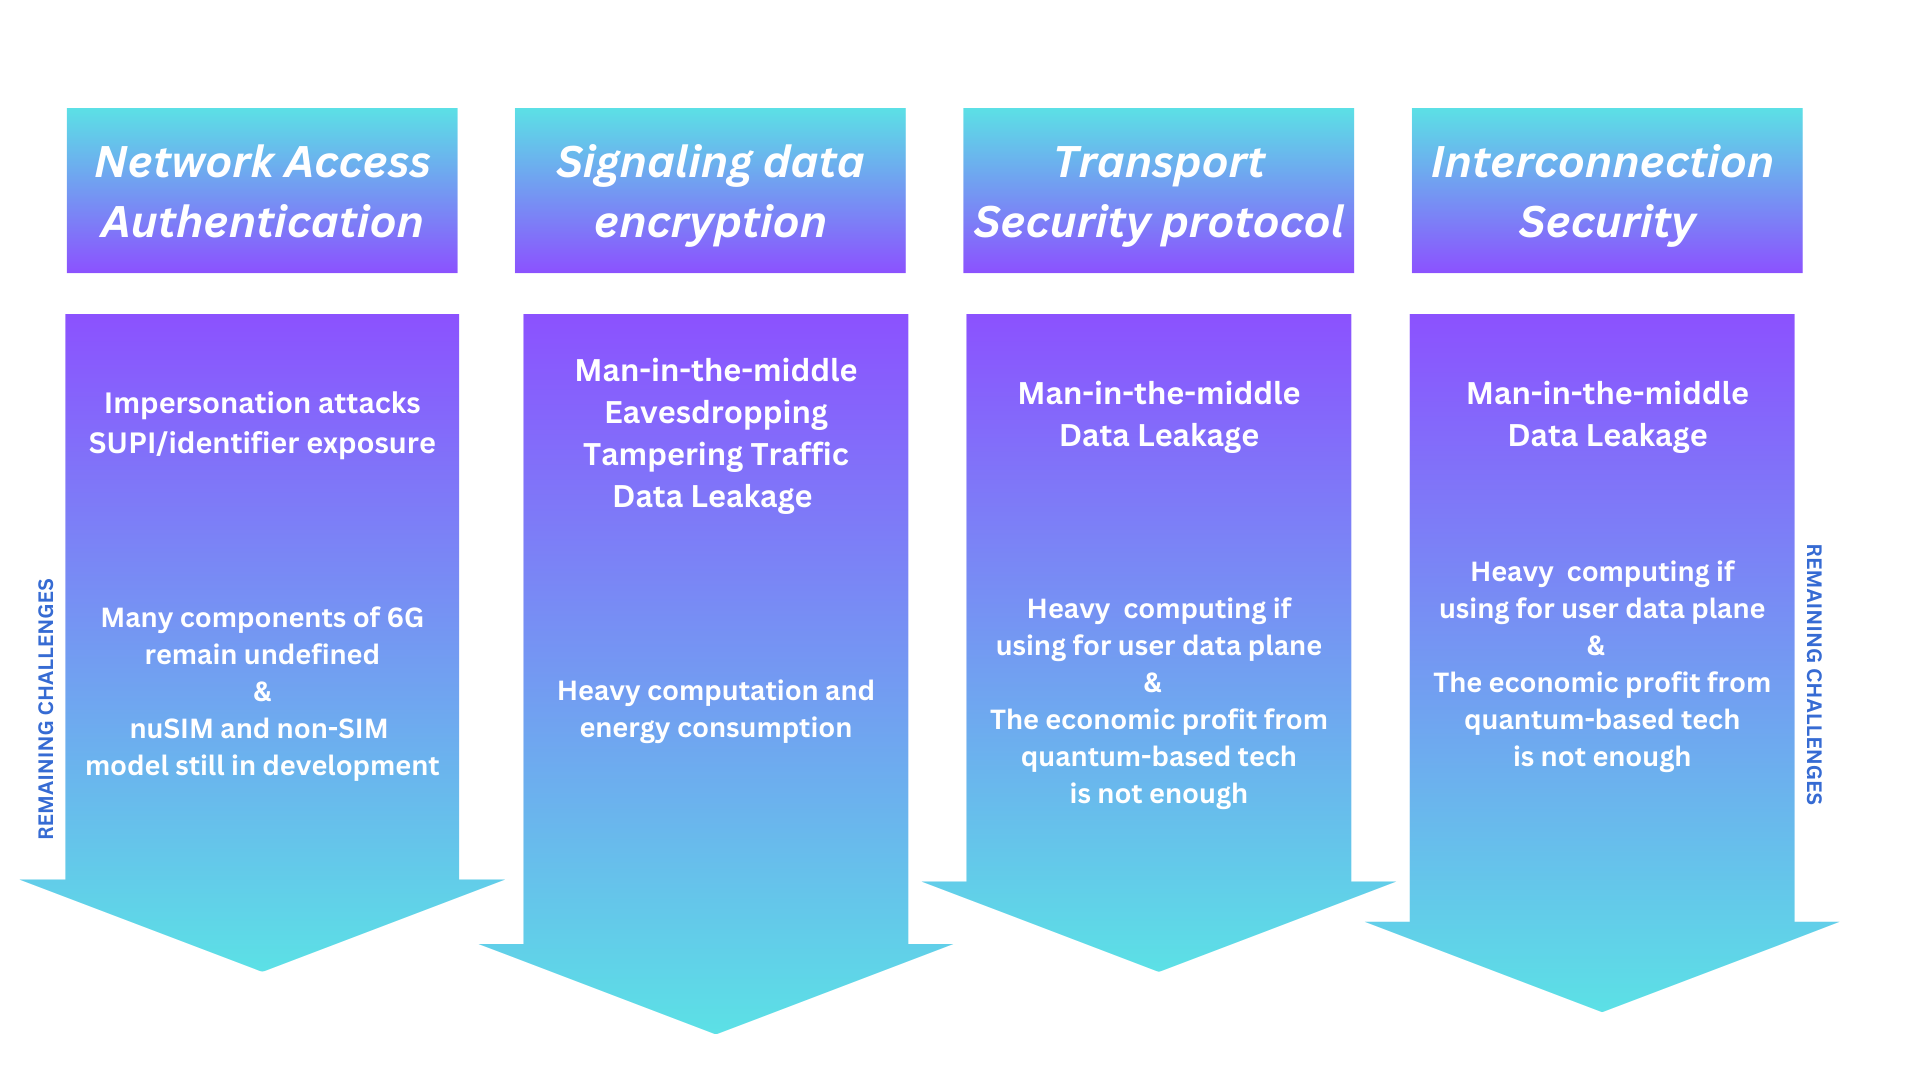
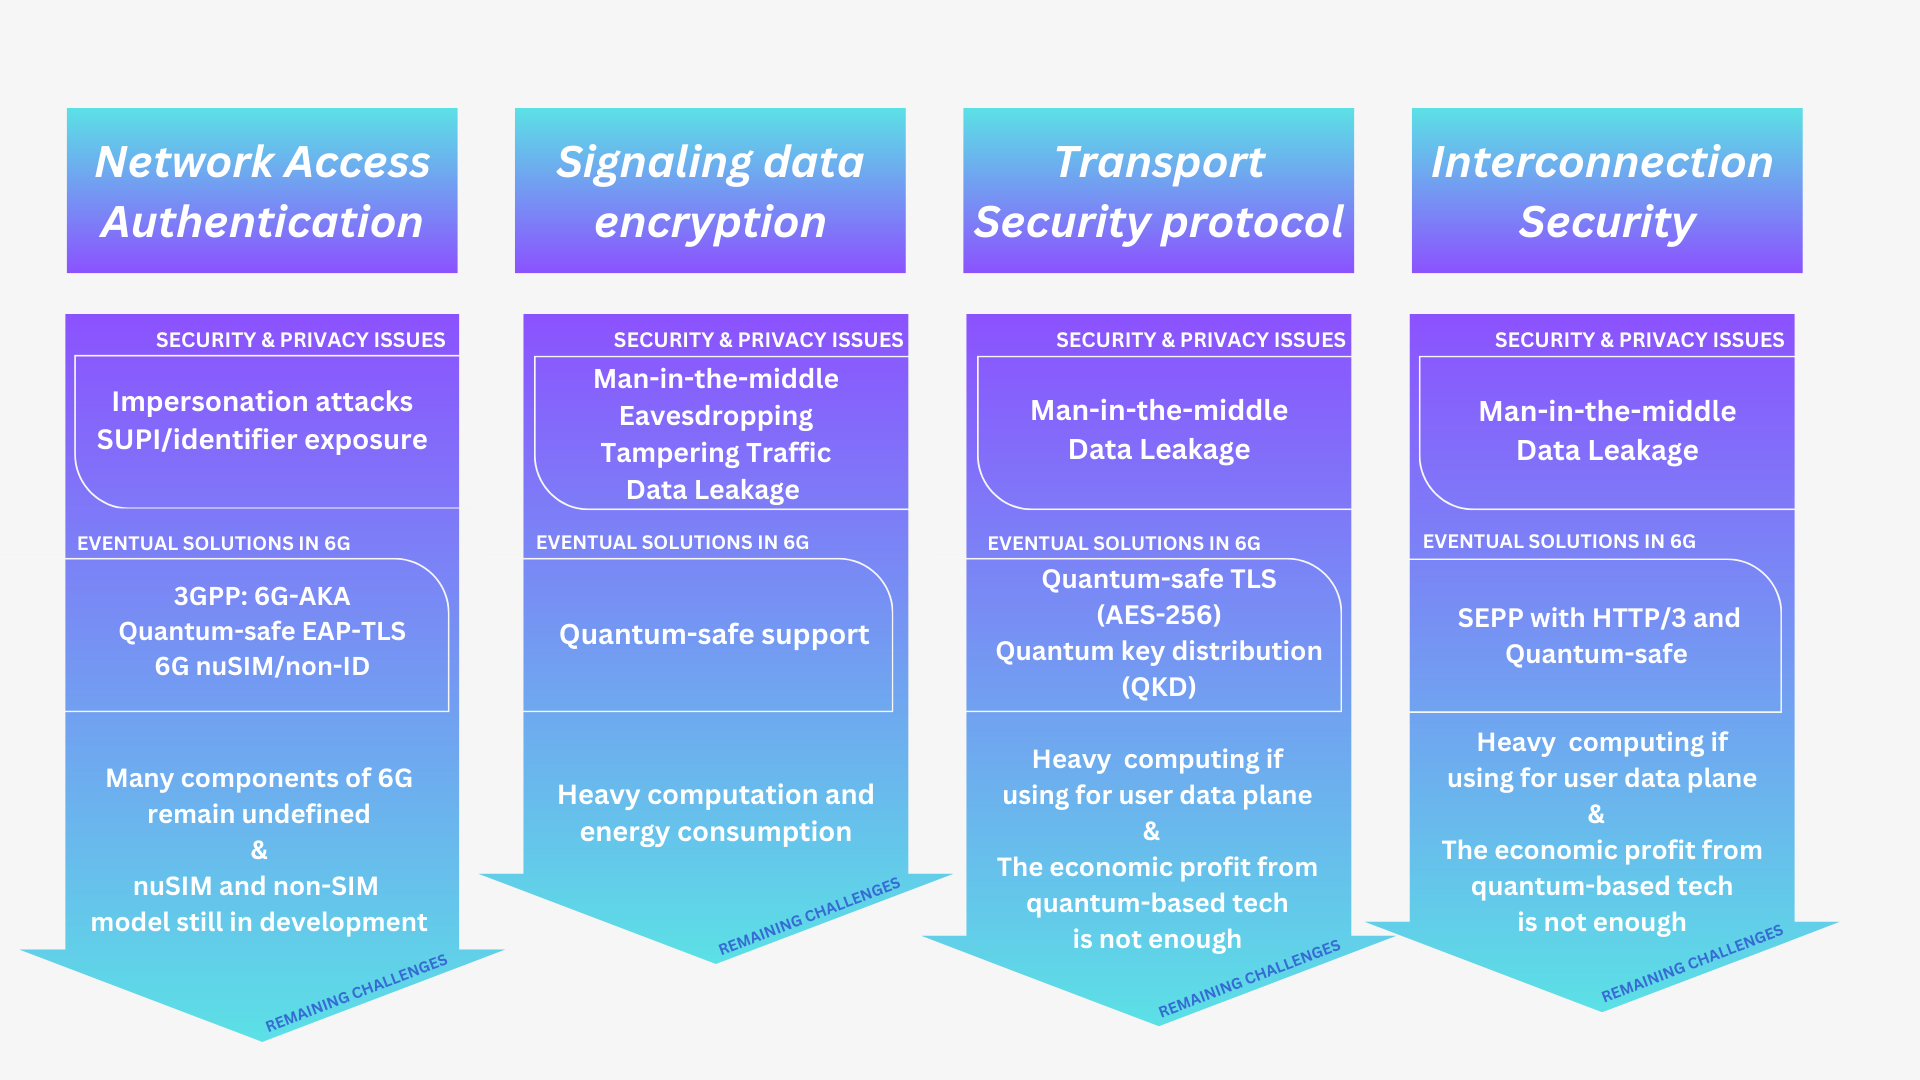
Ajouts page 6G

diff --git a/src/components/SixG.tsx b/src/components/SixG.tsx
@@ -51,6 +51,7 @@ const Article = () => {
         </p>
 
         <img src="/images/Network_Security.png" alt="TEST" />
+        <div className='italic text-center mb-4'>Diagram of the issues associated with each protocol</div>
 
 
 
@@ -106,6 +107,9 @@ const Article = () => {
 
 
         <h2 className="text-3xl mb-4 mt-10" id="third">Security in the connection layer</h2>
+        <img src="images/SecuConnectionLayer-1.png" alt="overview of security challenges in the connection layer" />
+        <img src="images/SecuConnectionLayer-2.png" alt="An overview of security challenges in the connection layer" />
+        <p className='italic text-center mb-4'>An overview of security challenges in the connection layer</p>
         <p>
           The connection layer could be seen as the aggregation of the network layer and the transport layer. This layer has been the target of attackers, as it goes from the ground stations to the gateways. Denial-of-service, spoofing attacks… the list goes on. Thus, it is more than essential to find ways to secure this layer as much as possible.
         </p>
@@ -250,10 +254,14 @@ const Article = () => {
 
 
 
+
       <h2 className="text-3xl mb-4 mt-10" id="fourth">Security in the service layer</h2>
       <p>
         Nowadays, the service layer mainly consists of edge/fox/cloud technologies, which are different computing paradigms. In order to protect the service layer, it is needed to combine different tasks, such as authentication, firewalls, data encryption, service identity access management, data-center network protection, and many more. There are many potential technologies which could help mitigate risks.
       </p>
+      <img src="images/SecuServiceLayer-1.png" alt="overview of security challenges in the service layer" />
+      <img src="images/SecuServiceLayer-2.png" alt="overview of security challenges in the service layer" />
+      <p className='italic text-center mb-4'>An overview of security challenges in the service layer</p>
 
       <h2 className="text-xl mx-2 mb-2 mt-6" id="">6G application authentication: distributed PKI and blockchain-based PKI</h2>
       <p>
@@ -291,7 +299,6 @@ const Article = () => {
       <p className="mt-4">
         On the other hand, the problem of personal data leakage remains, leaving room for potential privacy breaches. Once a breach of confidentiality has occurred for biometric data, there is no turning back, it is not possible to “update” fingerprints. Also, it puts the owner at risk, as his or her information can be stolen (find an example in the press).
       </p>
-      <img src="images/SecuServiceLayer-1.png"/>
       <p className='mt-4'>
         Other methods to secure the service layer have been recently developed or considered:
       </p>
@@ -307,8 +314,41 @@ const Article = () => {
       <p className='mt-4'>
         <strong>Liquid software security</strong>: liquid software allows data and applications to flow between nodes, and in 6G, this platform-agnostic approach will be extended to computing nodes such as edge servers. Enhancing containerization architecture and cloudization of edge/fog nodes will facilitate the development of platform-agnostic systems (which are systems designed to be independent any specific operating system or hardware platform). However, security challenges arise, including potential attacks in multi-tenancy container-based systems and the need for research on platform-agnostic security and related attacks. In the context of the evolving "Service Everywhere" architecture, security-as-a-service models will expand to computing nodes, and proactive AI models will be upgraded to address multiple threats. Challenges remain in detecting insider attacks and implementing robust distributed backup facilities to mitigate risks.
       </p>
-      <p></p>
-      <img src="images/SecuServiceLayer-2.png"/>
+
+
+
+
+      <h2 className="text-3xl mb-4 mt-10" id="fifth">Artificial intelligence's impact on 6G security</h2>
+      <p>
+        In 6G, the big new thing is Articicial Intelligence, with Machine Learning techniques. Through this approach, systems autonomously learn from human tasks, improving performance over time - making it a core subset of AI technology. A successful 6G network must integrate this innovation while prioritizing its security integration with AI technology as well. Because enterprises serving sizable subscriber bases operate these networks - investing in enhanced security measures enhances overall network integrity while providing advanced AI benefits for those same users.The evolution of general AI will positively impact 6G-AI-based security systems, however, it does not come without problems. The next sections will discuss how AI can be a double-edged sword for 6G security.
+      </p>
+      <img src="images/SecuIA.png" className='mt-4' alt="overview on AI in the 6G layer context" />
+      <p className='italic text-center mb-4'>An overview on AI in the 6G layer context</p>
+      <p>
+        Future directions for AI in 6G security include enhancing generative learning capabilities, utilizing distributed and federated learning for large-scale datasets, leveraging unsupervised models and transfer learning to reduce training costs. Furthermore, developing explainable AI models to ensure transparency and avoid unjustifiable decisions, which coud make AI dangerous.
+      </p>
+
+      <h2 className="text-xl mx-2 mb-2 mt-6" id="">How AI could be the target of security attacks</h2>
+      <p>
+        With all that being said, AI is not unbeatable, and it can actually be defeated. It is the target of adversarial attacks, which are attacks used to deceive or manipulate AI, by introducing carefully crafted data with the intention of causing the system to make incorrect or unintended decisions. Hackers can also target AI systems using differents arrack methods depending on their knowledge of the system. These attacks exploit vulnerabilities in the training data, learning algorithms, and hyperparameters used in the learning process. Data poisoning, algorithm poisoning, and model poisoning are the three main types of attacks that target AI-based systems. Data poisoning is actually one of the major challenges in security nowadays, as it involves inserting wrong labeled data or manipulating input objects, which results to mislead machine learning algorithms.
+      </p>
+      <p className='mt-4'>
+        In 6G, where AI is crucial for applications like autonomous driving, the risks of these attacks cannot be underestimated. Defense strategies against adversarial attacks on AI systems include enhancing data quality, model protection, and output integrity restoration. AI designers can modify ML systems by reducing noise, altering data features, or removing contaminated samples during the training process. Using data collected from verified sources and employing technologies like blockchain and mutual authentication can also improve data quality.
+      </p>
+      <p className='mt-4'>
+        For model protection, specialized detectors can be added to block ongoing attacks or perform multiple evaluations to verify the model's integrity. Output obfuscation and prediction purification techniques can be used to protect the integrity of the AI system's outputs during deployment. In 6G, there will likely be specialized techniques developed to detect weaknesses in AI-empowered technologies and assess AI models. AI security protection remains at the center of nany research and discussions in both academic and industrial circles.
+      </p>
+
+      <h2 className="text-xl mx-2 mb-2 mt-6" id="">How AI can be a weapon: a look on ethical regulations</h2>
+      <p>
+        AI has the potential to be used as a weapon or tool to evade defense systems, and it poses a new challenge in terms of adversarial use. Examples of AI-powered attacks include FusionRipper, which exploits vulnerabilities in autonomous vehicles, and DeepLocker, which hides malware within legitimate applications. These attacks leverage AI to enhance their effectiveness and reconnaissance capabilities. While AI-based attacks have been extensively studied in network applications, research in the context of 6G communications is still in its early stages.
+      </p>
+      <p className='mt-4'>
+        To address the ethical concerns and prevent the abuse of AI as weapons, it is crucial to establish guidelines and promote responsible AI practices. Many companies and governments have initiated global initiatives aimed at building platforms and implementing guidelines for the ethical use of AI. These efforts may involve potential legislation and policing to ensure that AI technologies are developed and deployed in a manner that benefits humanity rather than posing a threat.
+      </p>
+      <p className='mt-4'>
+        By promoting responsible AI practices and adhering to ethical principles, the aim is to harness the potential of AI for positive purposes while mitigating the risks associated with its adversarial use. It is essential to strike a balance between utilizing AI's capabilities for innovation and addressing the potential harm that could arise from its misuse.
+      </p>
     </div >
   );
 };

diff --git a/src/components/About.jsx b/src/components/About.jsx
@@ -10,10 +10,12 @@ function About() {
       {/* <div className="flex flex-wrap m-0 p-0 justify-between mt-10 items-center max-w-2xl"> */}
       <div className="flex pt-10">
         <p>
-          This website takes place in the context of the Cassiopée project, which aims to raise awareness of cybersecurity among researchers. Our project consists of creating a cybersecurity guide for researchers, gathering valuable information such as appropriate certifications tailored to their level, resources like scientific articles or theses, and upcoming events and conferences on the subject.<br/>
-          The goal of this project is to provide researchers, especially novice researchers, with a platform that centralizes information in the field of cybersecurity. A significant part of this project will involve research and synthesis of existing resources in these different areas. Both synthesis and thematic work are necessary to make the guide user-friendly and ensure that the information is easily accessible. <br/>
-          <strong>This site aim to be alimented over the time.</strong> <br/>
-          Developped & alimented by: <strong>Sarah R. & Thomas P.</strong>
+
+          This website exists in the context of a Cassiopée Project, a student project which aims to raise awareness of cybersecurity among researchers.<br/>
+          Our project consists in creating a Cybersecurity guide for researchers, by gathering such as certifications tailored to their level, resources like scientific articles or theses, upcoming events, and conferences.<br/>
+          The goal of this project is to provide researchers, especially novice researchers, with a platform that centralizes information in the field of cybersecurity. A significant part of this project involves researching and synthesizing existing resources in these different areas, to make a clear, comprehensive, and user-friendly guide. By ensuring that the information is easily accessible and articulate, we want to shed light on different cybersecurity domains, allowing newcomers to have a better understanding of the challenges related to them.<br/>
+          <strong>The objective is to keep this website up-to-date over time. </strong> <br/>
+          Developed & maintained by <strong>Sarah R. & Thomas P.</strong>
         </p>
         <div className="flex max-w-xs">
           <img src="images/Cassioplogo.png" alt="Cassiopée logo" />

diff --git a/src/components/Article.tsx b/src/components/Article.tsx
@@ -56,6 +56,11 @@ const Article = () => {
         text: "Security in the service layer",
         id: "fourth",
       },
+      {
+        level: 2,
+        text: "Artificial intelligence's impact on 6G security",
+        id: "fifth",
+      },
   ];
   return (
     <div className="container max-w-5xl">
